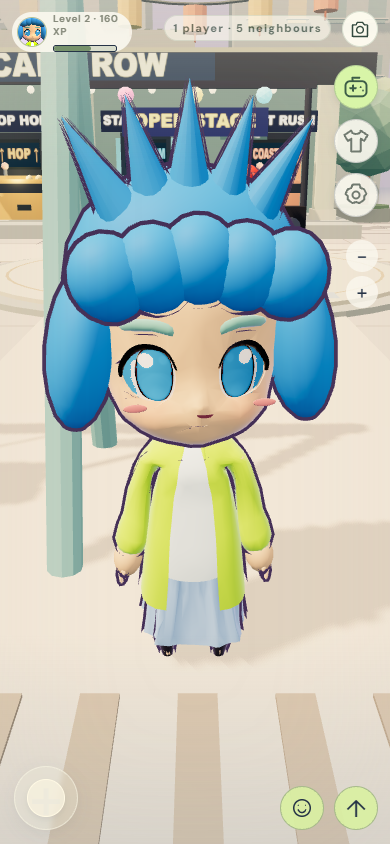
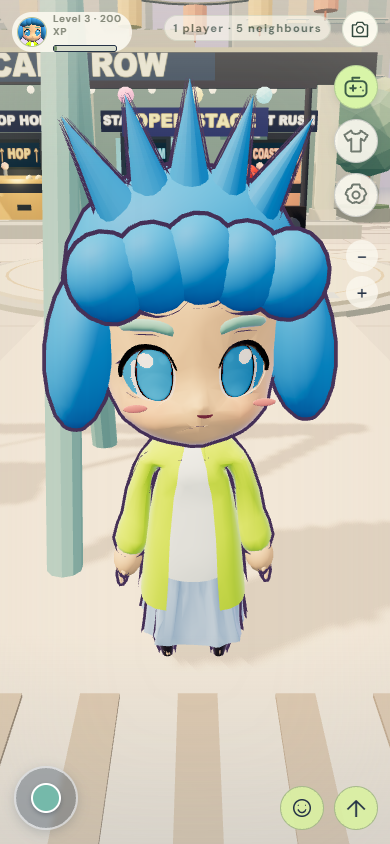
Use shared joystick styling and verify landscape touch movement

Changed region(s): [[0.0308, 0.8934, 0.2154, 0.9858], [0.1538, 0.0308, 0.2462, 0.0616], [0.2462, 0.0, 0.3077, 0.0308]]

diff --git a/src/main.ts b/src/main.ts
@@ -319,7 +319,7 @@ app.innerHTML = `
   <header class="topbar"><a class="brand" href="#" aria-label="Play Simi home"><span class="brand-mark">p<span>★</span></span><span>PLAY SIMI</span></a><div class="location-pill"><span class="status-dot"></span><span id="current-world">Joining…</span><span class="divider"></span><span id="sgt-clock">SGT</span></div><div class="world-utilities"><button id="camera-toggle" data-action="toggle-camera" aria-label="Switch to third-person view" aria-pressed="false">${icon("camera")}<span>Third person</span></button></div><span class="demo-tag" role="status">Connecting…</span></header>
   <main class="hud"><section class="welcome-panel" aria-label="Welcome"></section>
   <div class="move-hint"><kbd>W</kbd><span><kbd>A</kbd><kbd>S</kbd><kbd>D</kbd></span><p>Move <i>·</i> tap to walk</p></div>
-  <div id="joystick" class="joystick" role="group" aria-label="Drag to walk"><span></span></div>
+  <div id="joystick" class="joystick touch-stick" role="group" aria-label="Drag to walk"><span></span></div>
   <div id="fallback" class="fallback" hidden></div>
   </main>
   <footer class="bottom-bar"><div class="profile"><span class="avatar-icon" id="avatar-icon"><i></i></span><span><strong id="player-name">New neighbour</strong><span id="player-account" hidden>Guest mode</span><small id="medal-points">0 MEDALS</small><span id="level-label">LEVEL 1</span><span class="xp-track"><i id="xp-fill"></i></span></span></div><nav class="dock lobby-dock" aria-label="Main actions"><button class="selected" data-open="arcade" data-main-action>${icon("game")}<span>Play</span></button><button data-open="wardrobe" data-main-action>${icon("shirt")}<span>My look</span></button><button class="phone-more" data-open="phone-menu" data-main-action>${icon("settings")}<span>Menu</span></button></nav><span class="footer-note" id="quality-note">3D WORLD</span></footer>

diff --git a/src/mobile-hud.css b/src/mobile-hud.css
@@ -577,7 +577,7 @@ body:has(dialog[open]) .world-actions {
 }
 @media (max-width: 900px), (pointer: coarse) {
   .hud #joystick {
-    display: block;
+    display: grid;
   }
 }
 .mode-2d .hud #joystick,
@@ -585,5 +585,15 @@ body:has(dialog[open]) .world-actions {
 .is-interacting .hud #joystick,
 .inspecting .hud #joystick,
 body:has(dialog[open]) .hud #joystick {
+  display: none;
+}
+
+.hud #joystick {
+  position: fixed;
+  touch-action: none;
+  z-index: 10;
+  place-items: center;
+}
+.hud #joystick::before {
   display: none;
 }

diff --git a/tests/mobile-lobby-fixture.ts b/tests/mobile-lobby-fixture.ts
@@ -109,6 +109,11 @@ export function mobileLobbyFixture(
       `
       }
       dismiss.click();
+      if (!${twoD} && ${width} <= 900) {
+        const stick=find('#joystick');
+        check(visible(stick) && hit(stick), 'world joystick is visible and unobstructed');
+        check(getComputedStyle(stick).touchAction==='none', 'world joystick keeps native touch capture');
+      }
       const jump=find('#lobby-jump');
       check(!!jump, 'jump control exists');
       if (!${twoD}) {
